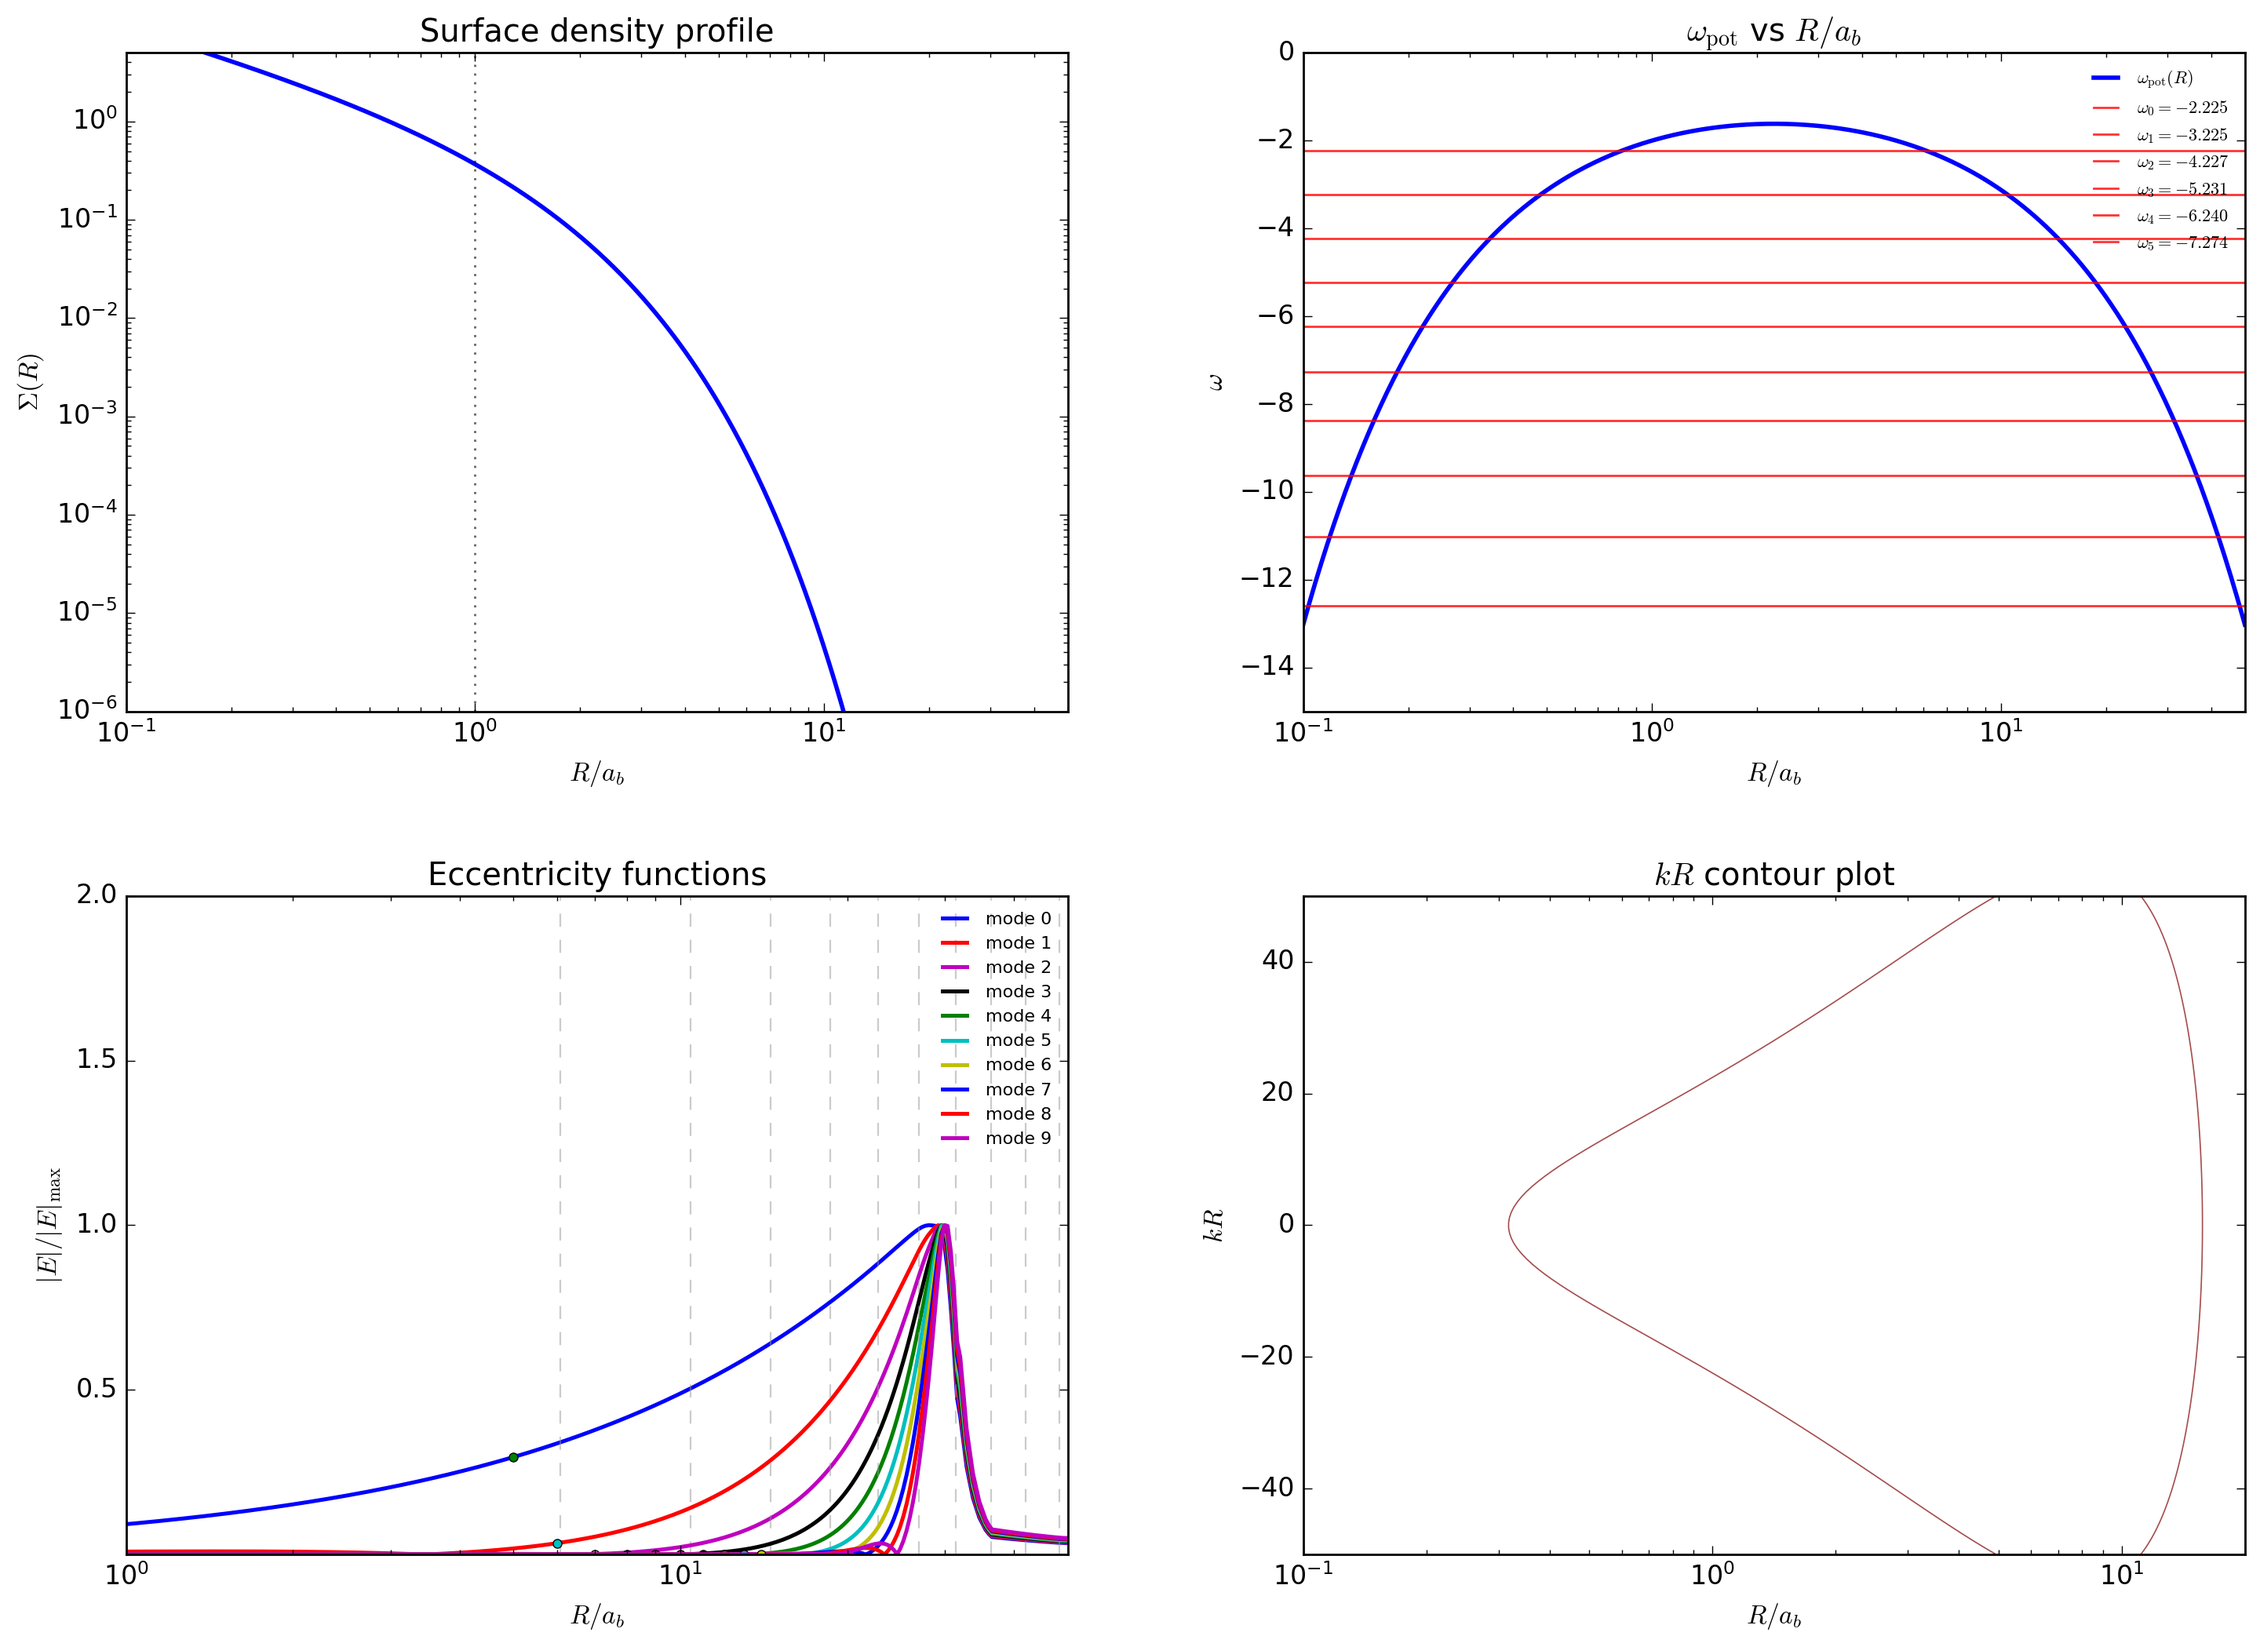
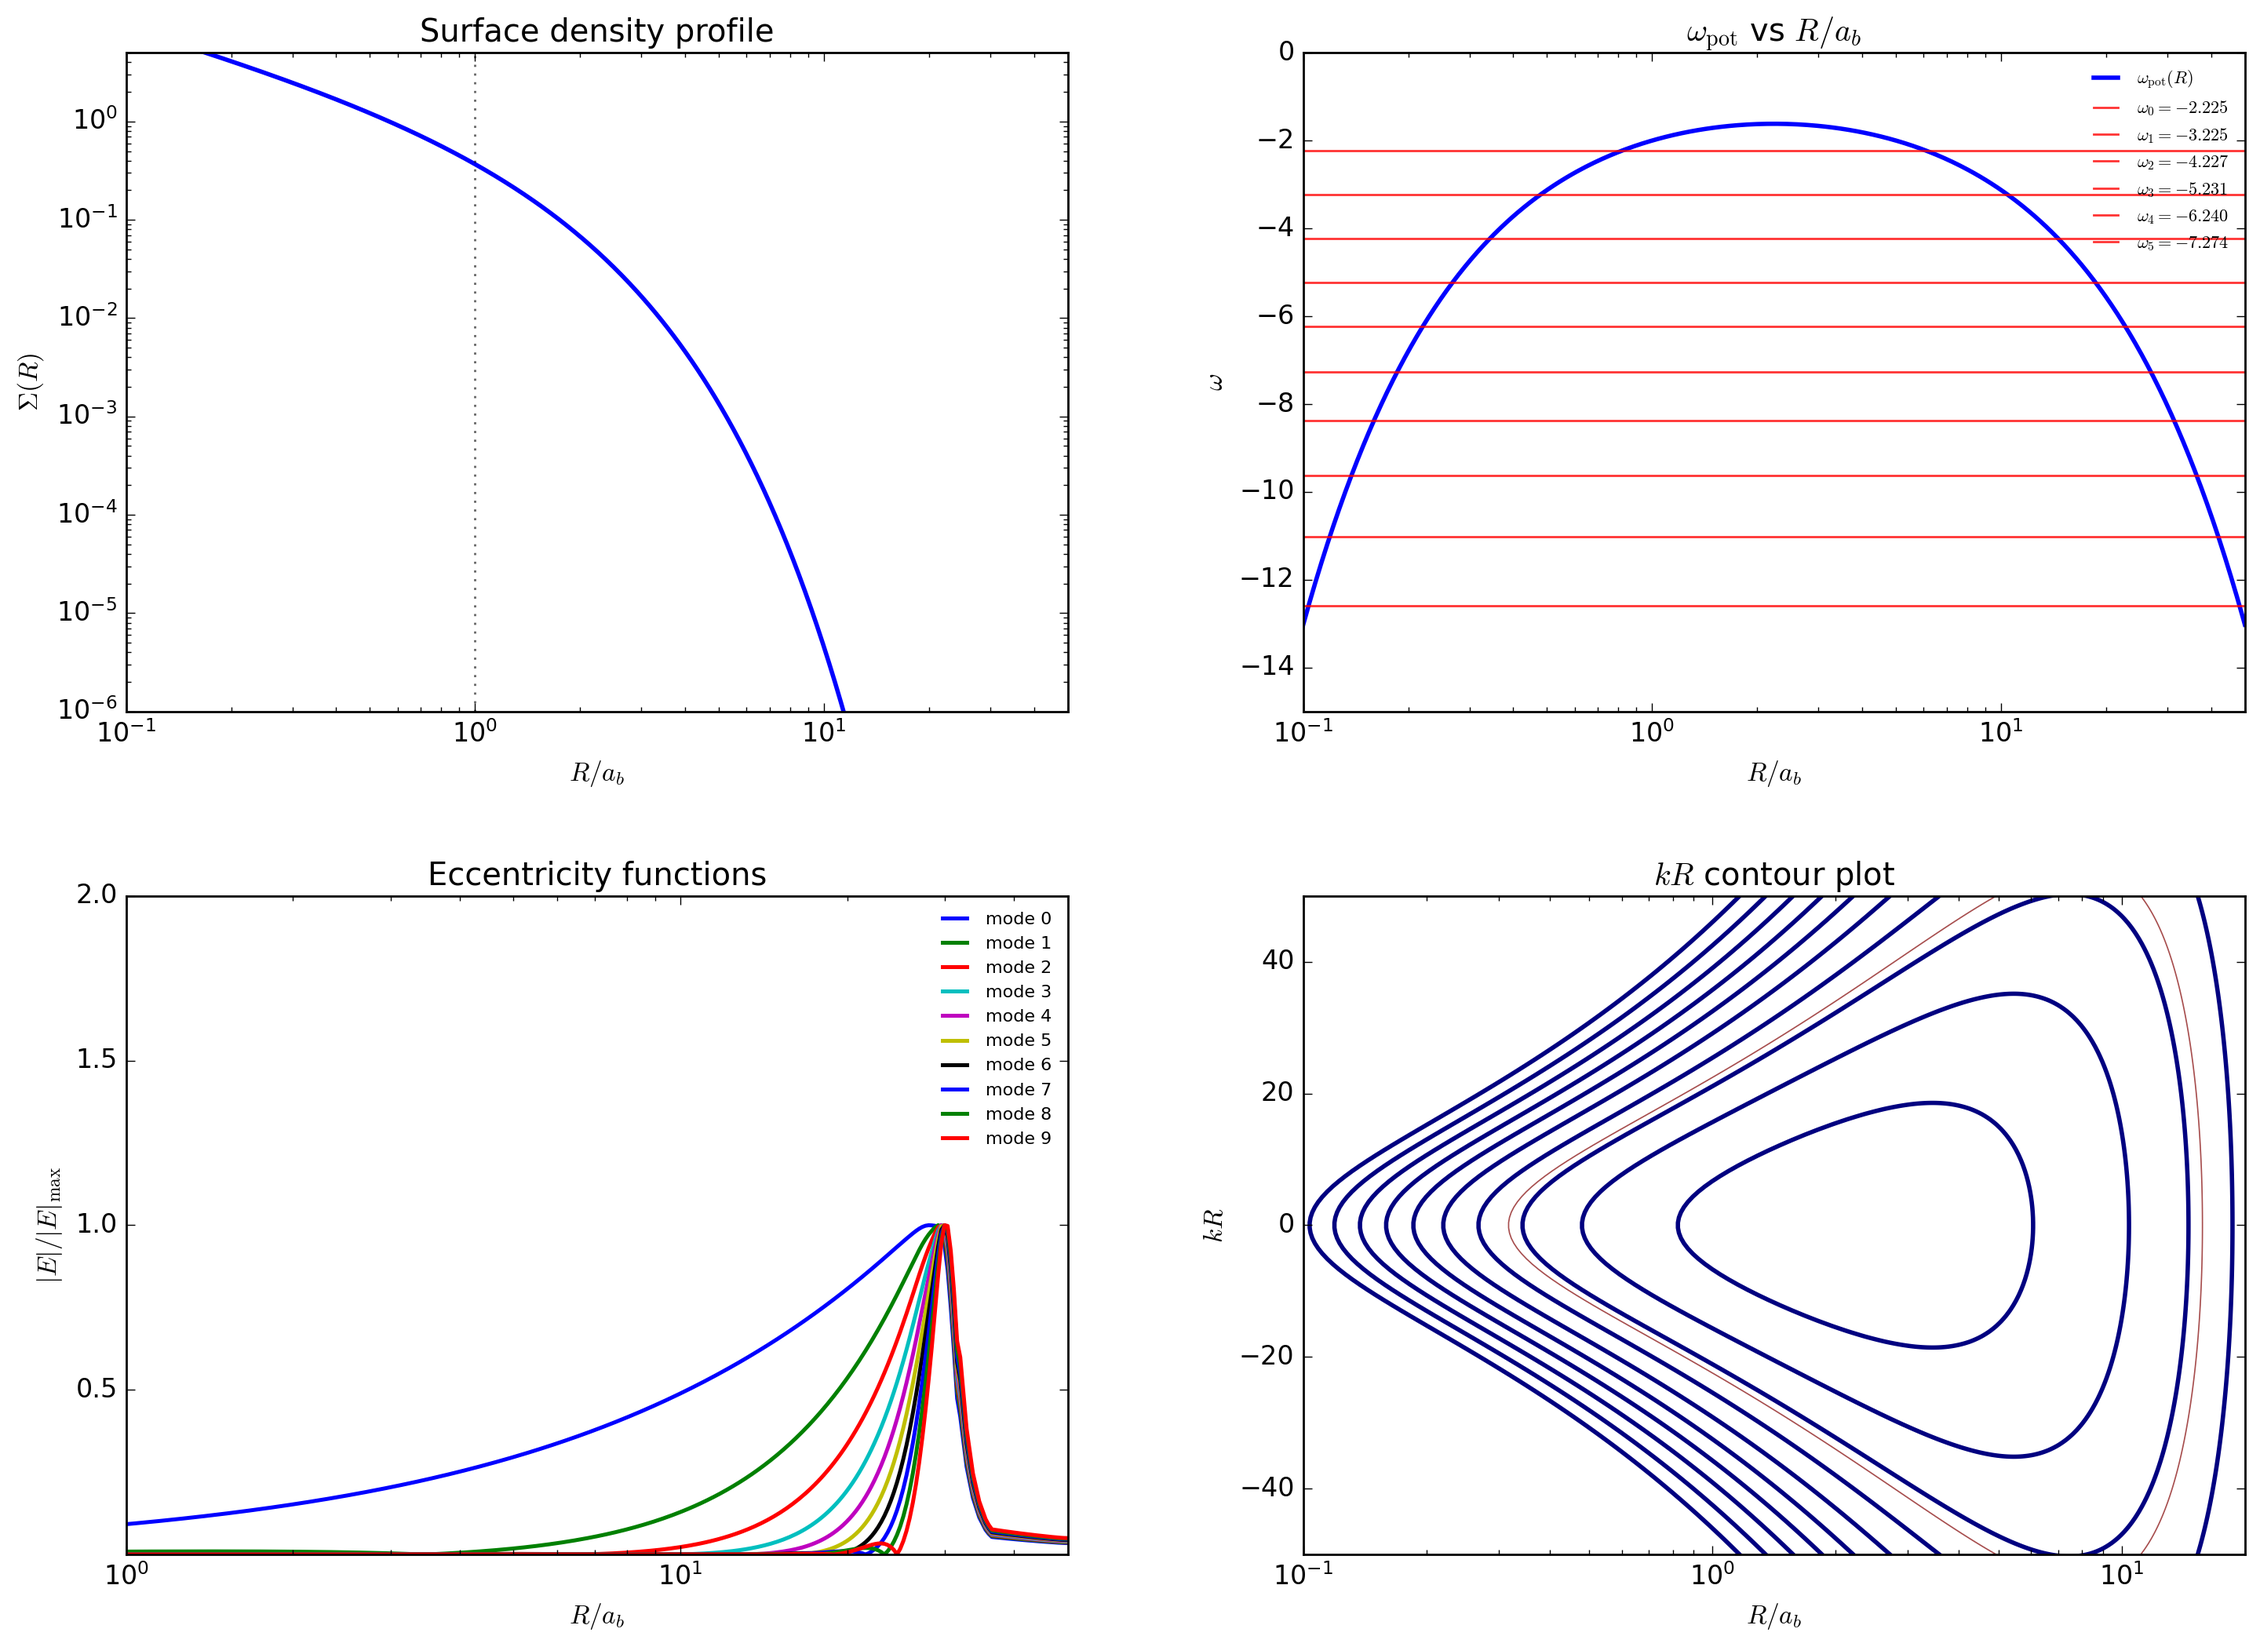
updates

diff --git a/NEW_plot_modes.py b/NEW_plot_modes.py
@@ -17,8 +17,8 @@ def plot_surface_density(ax, model, x):
     ax.set_ylabel(r"$\Sigma(R)$")
     ax.set_title("Surface density profile")
     
-    ax.set_xlim(1e-1, 50) #PLT 1 DOMAIN
-    ax.set_ylim(1e-6, 5) #PLT 1 RANGE
+    ax.set_xlim(5e-2, 50) #PLT 1 DOMAIN
+    ax.set_ylim(1e-6, 250) #PLT 1 RANGE
 
     if model.par.has_cavity_in_domain():
         ax.axvline(model.par.Rcav, ls="--", lw=1.0, color="k", alpha=0.6)
@@ -39,8 +39,8 @@ def plot_omega_potential(ax, model, x, omegas):
     ax.set_title(r"$\omega_{\rm pot}$ vs $R/a_b$")
     ax.legend(frameon=False, fontsize=8)
     
-    ax.set_xlim(1e-1, 50) #PLT 2 DOMAIN
-    ax.set_ylim(-15, 0) #PLT 2 RANGE
+    ax.set_xlim(5e-2, 50) #PLT 2 DOMAIN
+    ax.set_ylim(-7, 3) #PLT 2 RANGE
 
 
 def plot_eccentricity_functions(ax, model, x, omegas, modes):
@@ -119,8 +119,8 @@ def plot_kR_contour(ax, model, x, omegas, nmodes_to_show=None, nk=500):
     ax.set_ylim(-kR_max, kR_max)
     ax.set_title(r"$kR$ contour plot")
     
-    ax.set_xlim(0.1, 20) #PLT 4 DOMAIN
-    ax.set_ylim(-50, 50) #PLT 4 RANGE
+    ax.set_xlim(5e-2, 50) #PLT 4 DOMAIN
+    ax.set_ylim(-7, 7) #PLT 4 RANGE
 
 
 def summarize_modes(model, x, omegas, modes):

diff --git a/NEW_disk_model.py b/NEW_disk_model.py
@@ -26,7 +26,7 @@ class DiskParams:
     coeff3D: float = 0.0
 
     l0: float = 0.7 # net torque per unit accreted mass exerted by the CBD on the binary. 0.7 from Munoz Lithwick 2020
-    p: Optional[float] = None # if None, use p = 1.5 - beta
+    p: float = 1 # if None, use p = 1.5 - beta, Optional[float] = None
 
     # Domain
     xin: float = 0.1
@@ -39,7 +39,7 @@ class DiskParams:
 
     # Outer taper controls
     Rout: Optional[float] = None # Rout can either be a float or None
-    taper_power: float = 3.0
+    taper_power: float = 1.0
     use_outer_taper: bool = False
 
     # Boundary condition controls for the eigenproblem
